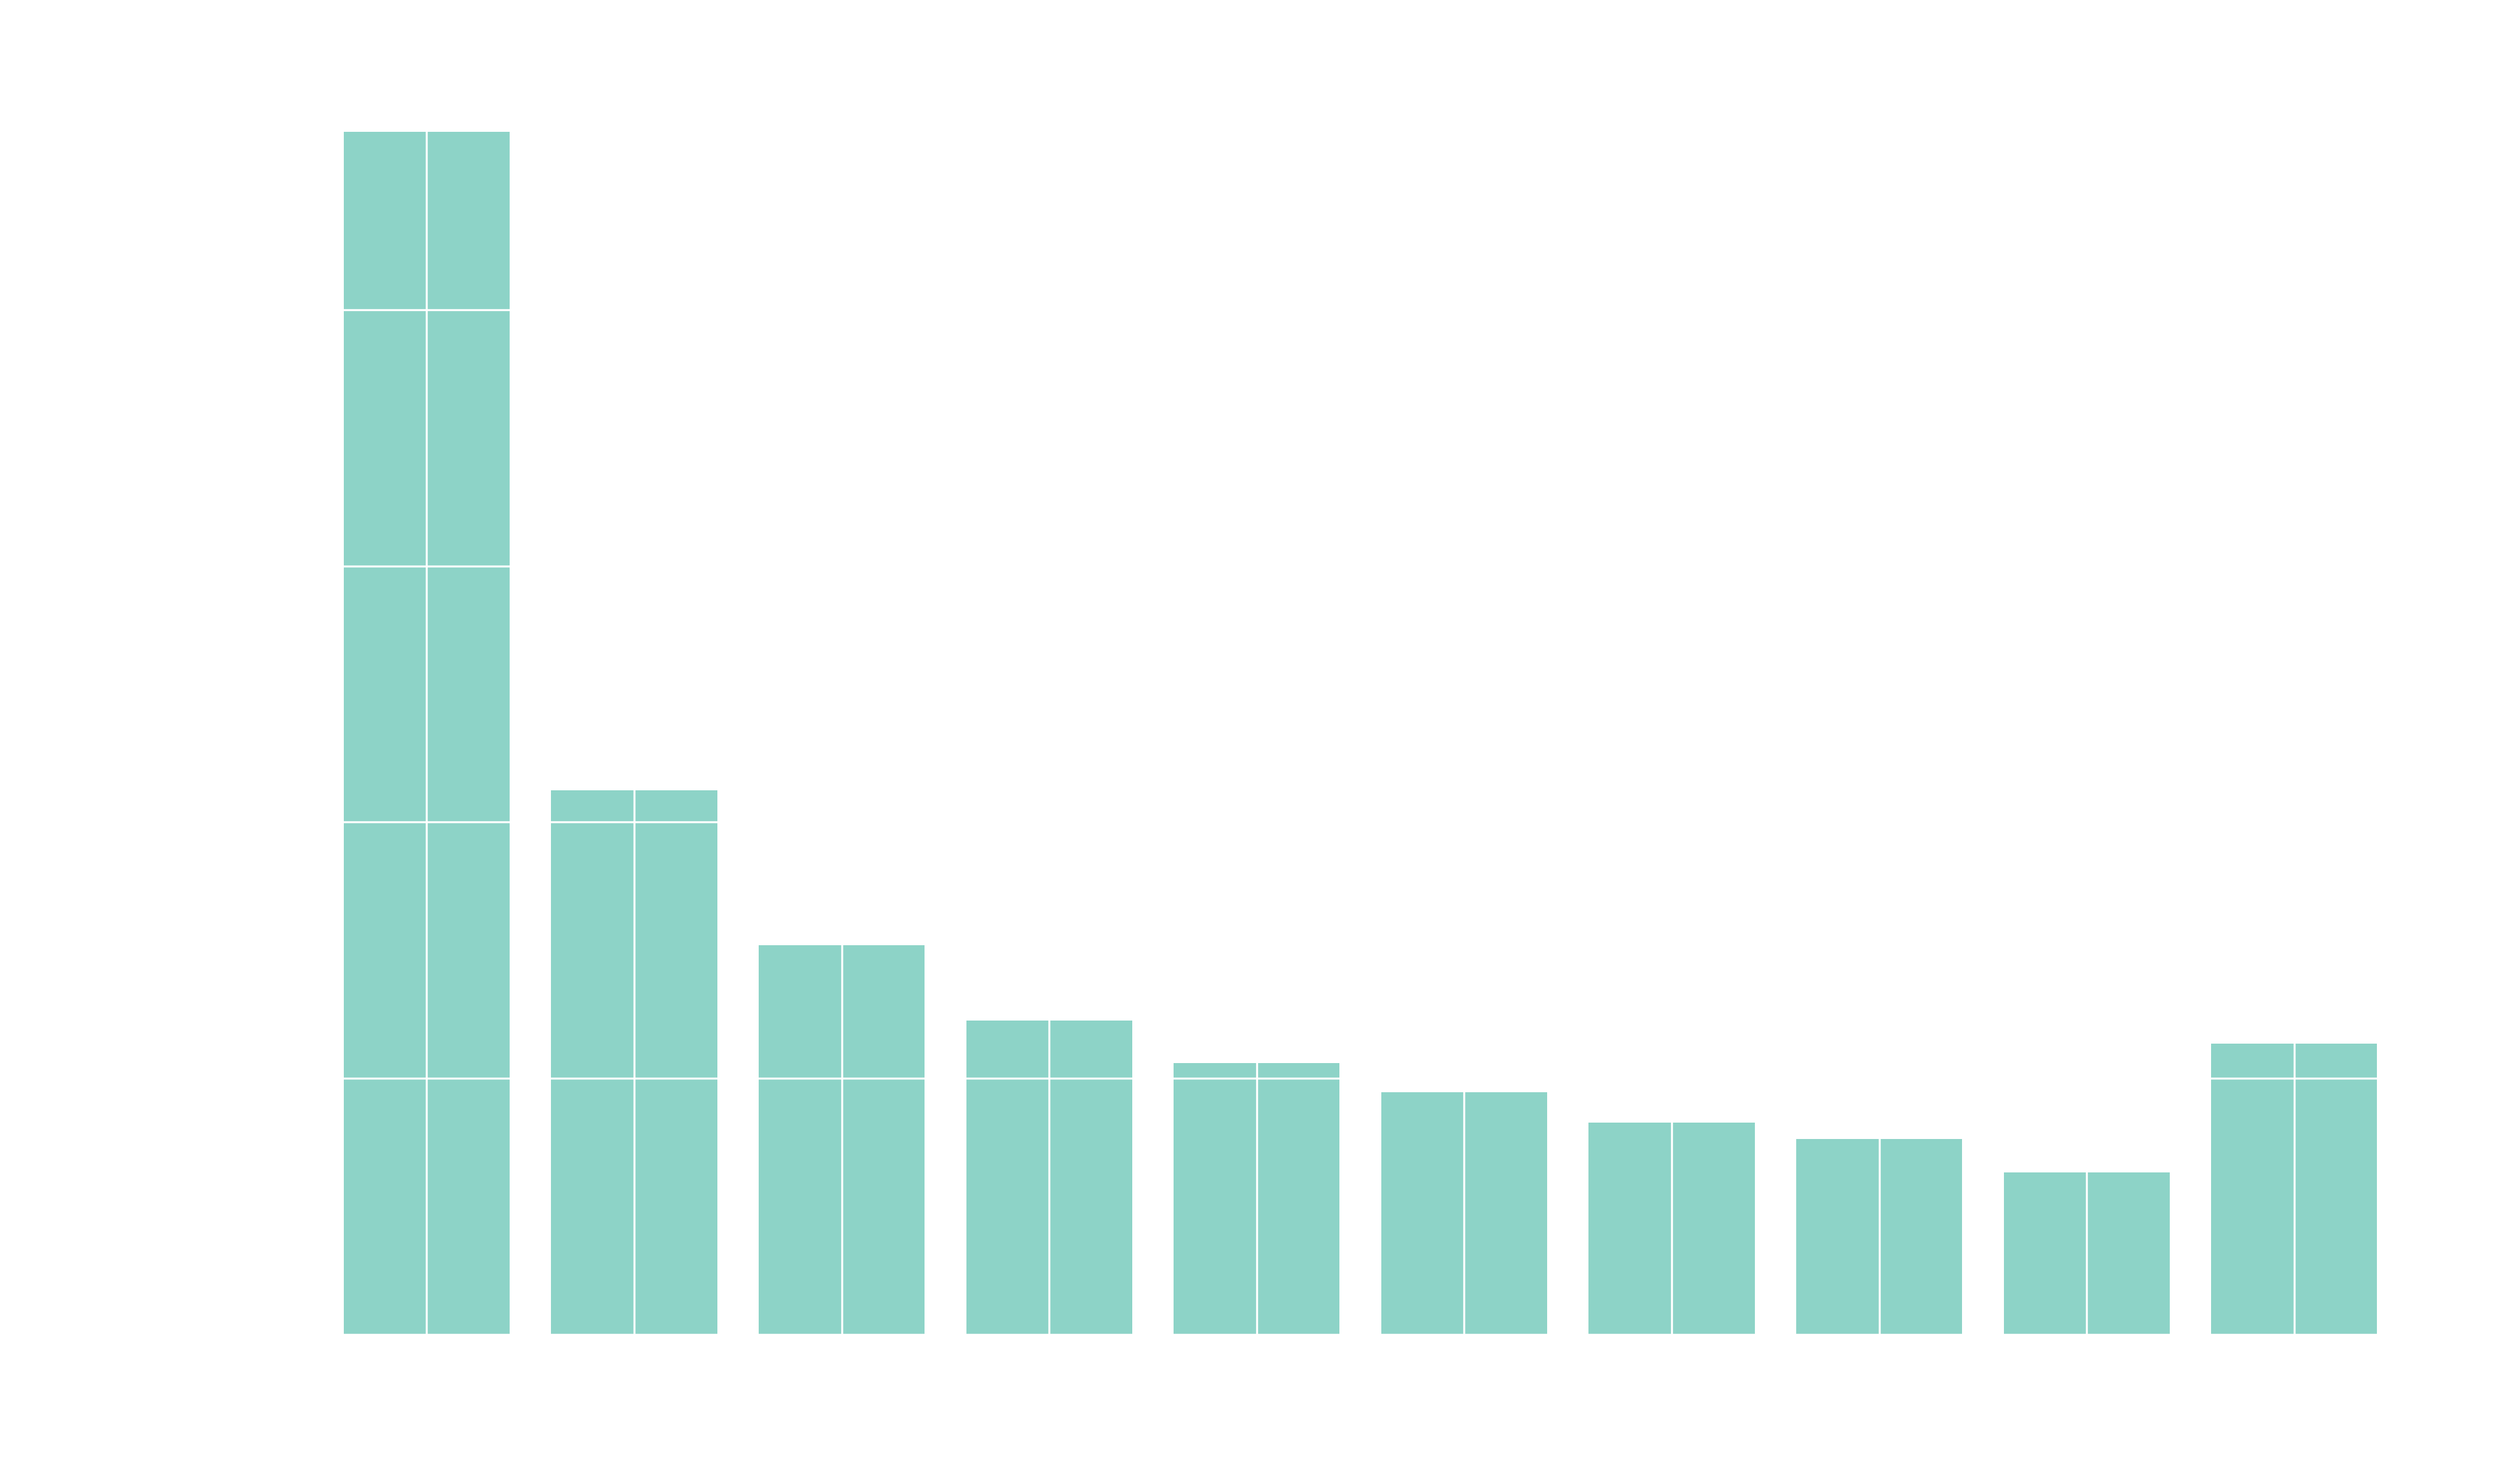
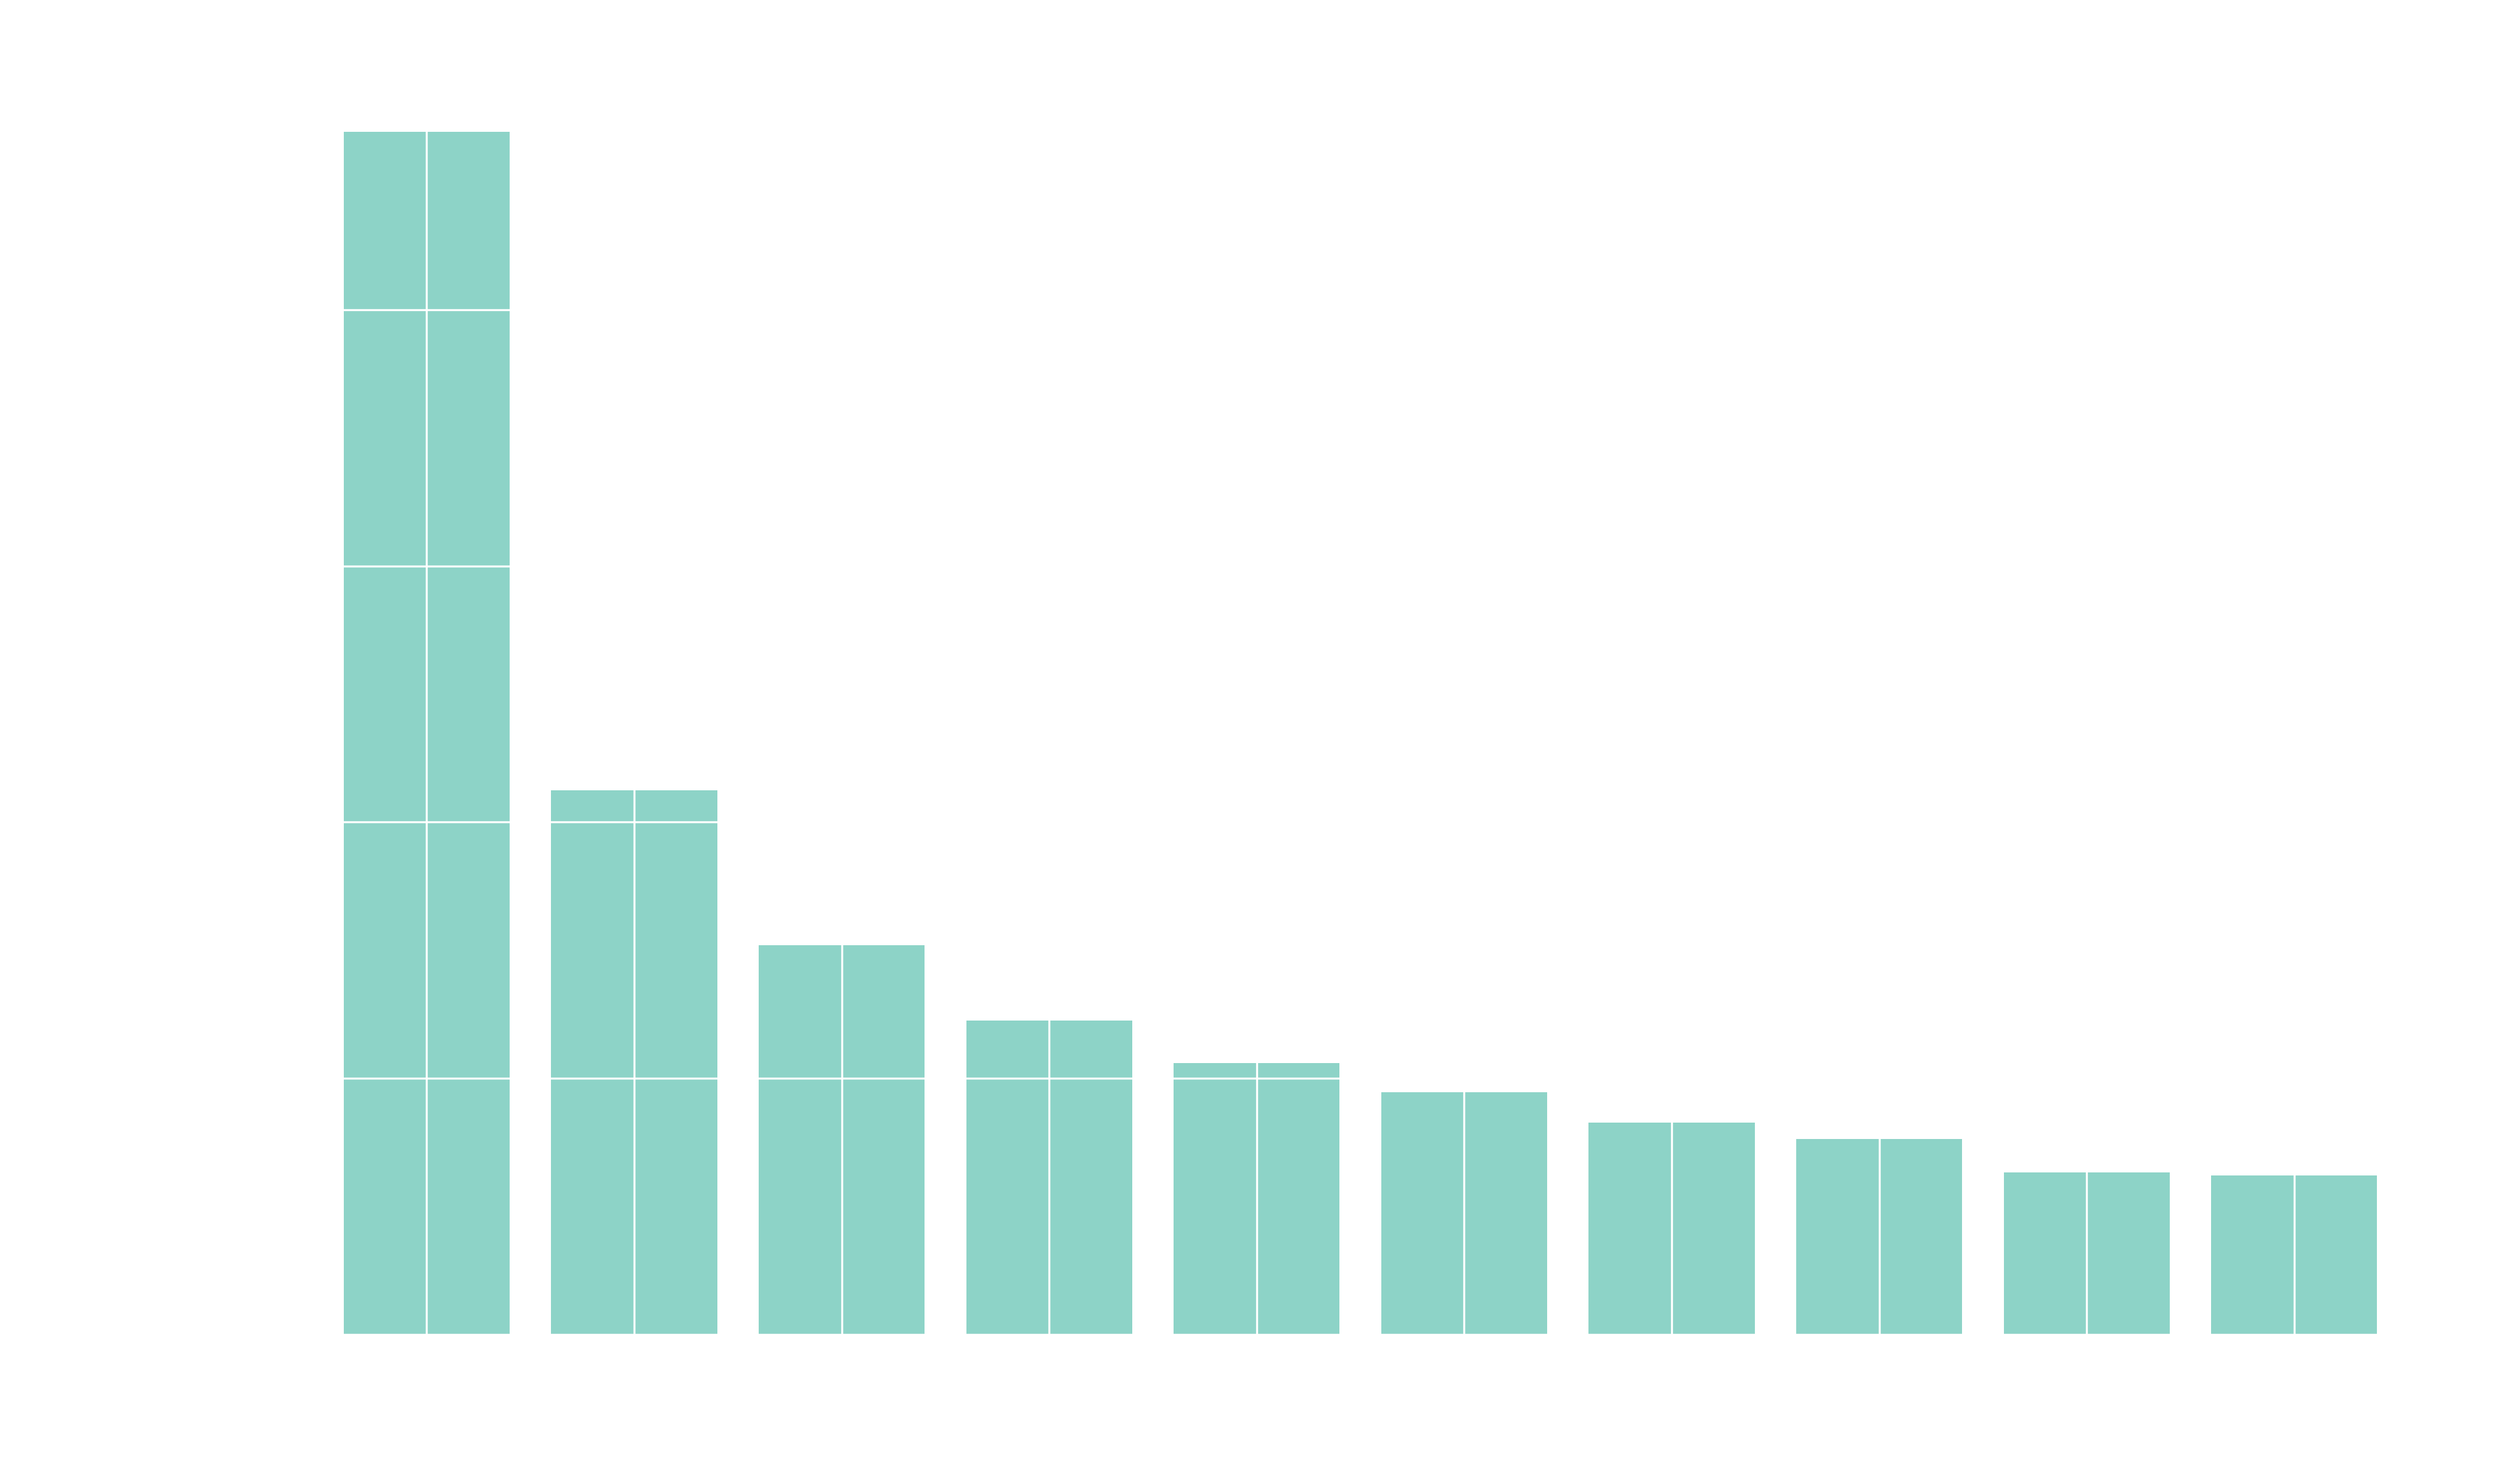
Added extended graph. added some text

Changed region(s): [[0.8712, 0.7158, 0.9645, 0.8091]]

diff --git a/_posts/2019-12-31-reddit-jokes.md b/_posts/2019-12-31-reddit-jokes.md
@@ -27,16 +27,12 @@ Example:
 
 <blockquote class="reddit-card" data-card-created="1578141860"><a href="https://www.reddit.com/r/Jokes/comments/5vt0bn/girls_call_me_ugly_until_they_find_out_how_much/">Girls call me ugly until they find out how much money i make.</a> from <a href="http://www.reddit.com/r/Jokes">r/Jokes</a></blockquote>
 <script async src="//embed.redditmedia.com/widgets/platform.js" charset="UTF-8"></script>
-
 <blockquote class="reddit-card" data-card-created="1578141883"><a href="https://www.reddit.com/r/Jokes/comments/aysxx6/girls_used_to_call_me_ugly_until_they_found_out/">Girls used to call me ugly until they found out how much money I make.</a> from <a href="http://www.reddit.com/r/Jokes">r/Jokes</a></blockquote>
 <script async src="//embed.redditmedia.com/widgets/platform.js" charset="UTF-8"></script>
-
 <blockquote class="reddit-card" data-card-created="1578141900"><a href="https://www.reddit.com/r/Jokes/comments/bugejh/women_call_me_ugly_until_they_find_out_how_much/">Women call me ugly until they find out how much money I make.</a> from <a href="http://www.reddit.com/r/Jokes">r/Jokes</a></blockquote>
 <script async src="//embed.redditmedia.com/widgets/platform.js" charset="UTF-8"></script>
-
 <blockquote class="reddit-card" data-card-created="1578141914"><a href="https://www.reddit.com/r/Jokes/comments/crclls/a_women_called_me_ugly_until_she_found_how_much/">A women called me ugly until she found how much money I make.</a> from <a href="http://www.reddit.com/r/Jokes">r/Jokes</a></blockquote>
 <script async src="//embed.redditmedia.com/widgets/platform.js" charset="UTF-8"></script>
-
 So, as stated in objective, I wanted to quantitatively find out exactly what fraction of submitted jokes are repost.  
 
 # Finding reposted jokes
@@ -60,7 +56,6 @@ To demonstrate this method, take the example above. There are four similar jokes
 
 <blockquote class="reddit-card" data-card-created="1578205073"><a href="https://www.reddit.com/r/Jokes/comments/ivui2/woman_looking_in_the_mirror_broke_down_to_tears/">Woman looking in the mirror broke down to tears. Told her husband she looks fat, old, and ugly, said a compliment would make her feel better...</a> from <a href="http://www.reddit.com/r/Jokes">r/Jokes</a></blockquote>
 <script async src="//embed.redditmedia.com/widgets/platform.js" charset="UTF-8"></script>
-
 This is a good choice for control joke, as it has some words common with original joke. The similarity matrix between these jokes and one control joke is:
 
 |        | Joke 1 | Joke 2 | Joke 3 | Joke 4 | Control Joke |
@@ -70,15 +65,35 @@ This is a good choice for control joke, as it has some words common with origina
 | Joke 3 |  0.90  |  0.73  |   1    |  0.90  |     0.24     |
 | Joke 4 |  0.81  |  0.70  |  0.90  |   1    |     0.22     |
 
-# Onto the Results
+As one can see from the table, the similarity score between first four jokes is at least 0.7. Whereas, the dissimilar control joke has similarity score of around 0.2. So, this approach seems to be able to handle slight variations within similar jokes.
 
-{% include figure image_path="/assets/images/r_jokes/repetition_advanced.png" alt="advanced" caption="Total of 3562jokes were repeated at least once." %}
+# On to the Results
 
-As you can see from the above graph, only YY% of total jokes are original. ZZ% of the jokes were posted more than once. These are very large numbers. 
+## Repetition of Jokes
+
+{% include figure image_path="/assets/images/r_jokes/repetition_advanced.png" alt="advanced" caption="70.61% of the jokes were repeated at least once." %}
+
+As you can see from the above graph, 70.61% of the jokes were posted more than once. There are only ~38k unique jokes out of analyzed ~79k jokes.
+
+## Extended Graph
+
+{% include figure image_path="/assets/images/r_jokes/repetition_advanced_ext.png" alt="advanced_ext" caption="Around 200 jokes have been posted 50 times." %} 
 
 ## Most submitted joke
 
-## Median upvotes as a function of number of times the joke was submitted
+The following joke was submitted 54 times!
+
+<blockquote class="reddit-card" data-card-created="1578233219"><a href="https://www.reddit.com/r/Jokes/comments/4maoti/a_father_buys_a_lie_detector_robot_that_slaps/">A father buys a lie detector robot that slaps people when they lie.</a> from <a href="http://www.reddit.com/r/Jokes">r/Jokes</a></blockquote>
+<script async src="//embed.redditmedia.com/widgets/platform.js" charset="UTF-8"></script>
+
+
 
 ## Temporal Distribution of reposting
 
+# Limitations 
+
+Short and template jokes are very difficult to differentiate. Knock knock jokes, how many X does it take to change a lightbulb, are typical examples. Although, these jokes are different essentially, the logic I used clubbed them together.
+
+# Conclusion
+
+Around 70% of the jokes submitted on reddit.com/r/jokes are posted more than once. There are some jokes which have been posted 50 times. Only ~38k out of  ~79k jokes are unique.
